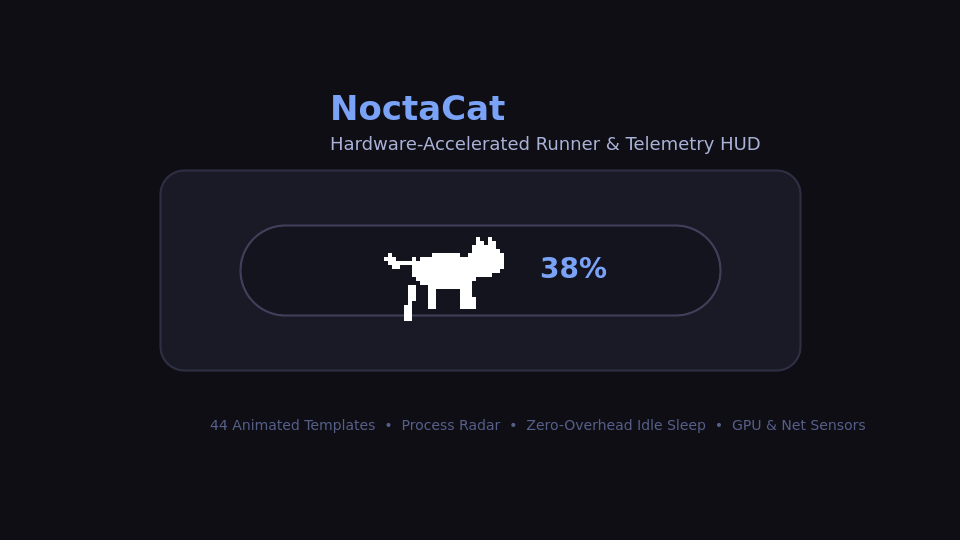
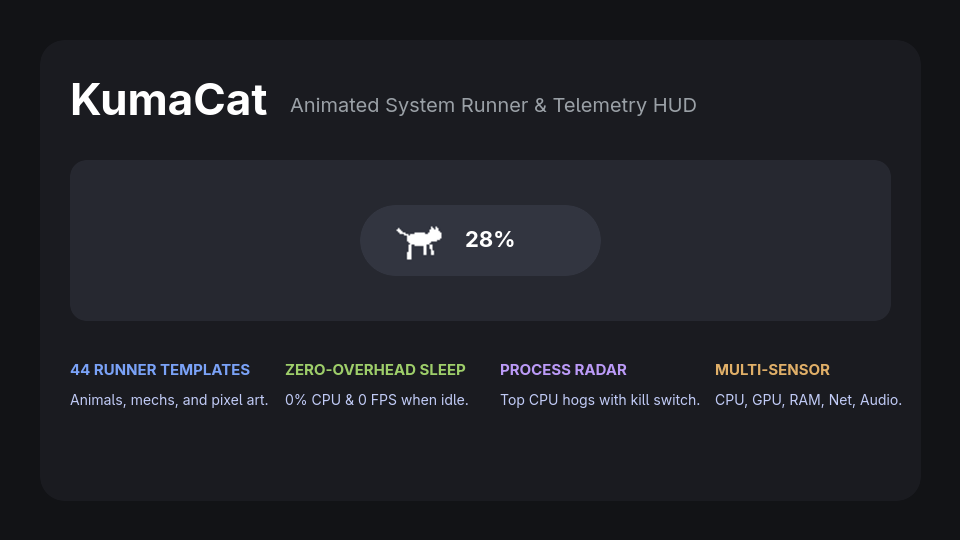
feat: rename plugin to KumaCat

Changed region(s): [[0.0625, 0.1481, 0.9375, 0.5926], [0.0625, 0.6519, 0.9375, 0.8], [0.375, 0.3556, 0.625, 0.5926]]

diff --git a/Panel.qml b/Panel.qml
@@ -141,7 +141,7 @@ Item {
                         spacing: Style.marginXXS
 
                         NText {
-                            text: mainInstance ? mainInstance.runnerDisplayName : "NoctaCat"
+                            text: mainInstance ? mainInstance.runnerDisplayName : "KumaCat"
                             pointSize: Style.fontSizeL
                             font.bold: true
                             color: Color.mOnSurface
@@ -421,7 +421,7 @@ Item {
                         if (pluginApi && targetScreen) {
                             BarService.openPluginSettings(targetScreen, pluginApi.manifest);
                         } else {
-                            Quickshell.execDetached(["qs", "-c", "noctalia-shell", "ipc", "call", "plugin", "openSettings", "noctacat"]);
+                            Quickshell.execDetached(["qs", "-c", "noctalia-shell", "ipc", "call", "plugin", "openSettings", "kumacat"]);
                         }
                     }
                 }

diff --git a/Main.qml b/Main.qml
@@ -126,9 +126,9 @@ Item {
                 if (root.turboSeconds === 30) {
                     Quickshell.execDetached([
                         "notify-send",
-                        "-a", "NoctaCat",
+                        "-a", "KumaCat",
                         "-u", "critical",
-                        "NoctaCat: Sustained Turbo Load",
+                        "KumaCat: Sustained Turbo Load",
                         "High load (" + root.currentMetricValue + "%) detected for 30s. Check Process Radar in the HUD."
                     ]);
                 }
@@ -196,7 +196,7 @@ Item {
     onRunnerChanged: applyRunnerMeta(runner)
 
     IpcHandler {
-        target: "plugin:noctacat"
+        target: "plugin:kumacat"
 
         function pause() { root.paused = true; }
         function resume() { root.paused = false; }

diff --git a/README.md b/README.md
@@ -1,4 +1,4 @@
-# NoctaCat 🐾
+# KumaCat 🐾
 
 Ultra-lightweight, hardware-accelerated animated runner for [Noctalia Shell](https://github.com/noctalia-dev/noctalia) on Wayland (Niri, Hyprland, Sway).
 
@@ -16,7 +16,7 @@ Inspired by RunCat and cosmic-runkat, redesigned from the ground up for zero-ove
   * When load drops below the threshold (default 5%) for over 12 seconds, the runner curls up to nap.
   * The animation timer is completely halted (`0 FPS`), eliminating wasted render cycles and battery drain.
 * **Interactive Pet Micro-Interactions:**
-  * Double-click the runner on the bar (or select "Pet NoctaCat ♥" in the right-click menu) to pet the cat.
+  * Double-click the runner on the bar (or select "Pet KumaCat ♥" in the right-click menu) to pet the cat.
   * Triggers a hop bounce animation and floats playful heart/purr reaction emotes (`♥`, `meow~`, `purr~`, `✨`).
 * **Multi-Sensor Hardware Drivers:**
   * **CPU Usage (%):** Smooth speed scaling proportional to overall CPU load.
@@ -30,11 +30,11 @@ Inspired by RunCat and cosmic-runkat, redesigned from the ground up for zero-ove
   * View real-time clock frequencies, memory usage, and the top 3 CPU-consuming processes.
   * Click the `✕` button next to any runaway process to instantly terminate it (`kill -15 <pid>`).
 * **Sustained Turbo Alert Guardian:**
-  * When load stays above the Turbo Threshold (default 85%) for 30 consecutive seconds, NoctaCat fires a desktop warning notification so you can inspect runaway processes.
+  * When load stays above the Turbo Threshold (default 85%) for 30 consecutive seconds, KumaCat fires a desktop warning notification so you can inspect runaway processes.
 * **Multi-Monitor Display Filtering:**
-  * Choose whether NoctaCat runs on all connected monitor bars or strictly on your primary workstation screen.
+  * Choose whether KumaCat runs on all connected monitor bars or strictly on your primary workstation screen.
 * **Custom GIF & Sprite Auto-Importer:**
-  * Built-in CLI tool (`./bin/noctacat-import`) extracts and formats any GIF, webp, or video into a clean runner pack with automatic dark-silhouette inversion for dark bars.
+  * Built-in CLI tool (`./bin/kumacat-import`) extracts and formats any GIF, webp, or video into a clean runner pack with automatic dark-silhouette inversion for dark bars.
 * **44 Bundled Runner Packs:**
   * Ships with 44 runners: Pixel Cat (Smooth 10-frame), Classic Cat, Swift Bird, Rubber Duck, Frog, Beagle, Shiba Inu, Flash Cat, Dojo Panda, and more.
 * **Adaptive Theming:**
@@ -56,10 +56,10 @@ Inspired by RunCat and cosmic-runkat, redesigned from the ground up for zero-ove
 
 ## Custom Runner Importer CLI
 
-Import any GIF or video file directly into NoctaCat with one command:
+Import any GIF or video file directly into KumaCat with one command:
 
 ```bash
-./bin/noctacat-import path/to/cat.gif --id nyan-cat --name "Nyan Cat" --author "PR-Gamer"
+./bin/kumacat-import path/to/cat.gif --id nyan-cat --name "Nyan Cat" --author "PR-Gamer"
 ```
 
 The importer automatically:
@@ -77,16 +77,16 @@ The importer automatically:
 Clone the repository into your projects directory and link it into your Noctalia plugins folder:
 
 ```bash
-git clone https://github.com/Mhdomer/noctacat.git /mnt/data/Projects/noctacat
-ln -s /mnt/data/Projects/noctacat ~/.config/noctalia/plugins/noctacat
+git clone https://github.com/Mhdomer/kumacat.git /mnt/data/Projects/kumacat
+ln -s /mnt/data/Projects/kumacat ~/.config/noctalia/plugins/kumacat
 ```
 
-Then add `"noctacat"` to your Noctalia plugins configuration in `~/.config/noctalia/plugins.json`:
+Then add `"kumacat"` to your Noctalia plugins configuration in `~/.config/noctalia/plugins.json`:
 
 ```json
 {
   "states": {
-    "noctacat": {
+    "kumacat": {
       "enabled": true
     }
   }
@@ -97,7 +97,7 @@ Add the widget to your bar layout in `~/.config/noctalia/settings.json` under `b
 
 ```json
 {
-  "id": "plugin:noctacat"
+  "id": "plugin:kumacat"
 }
 ```
 
@@ -105,7 +105,7 @@ Add the widget to your bar layout in `~/.config/noctalia/settings.json` under `b
 
 ## Configuration
 
-Right-click the runner on your bar and select **Widget Settings** (or run `qs -c noctalia-shell ipc call plugin openSettings noctacat`):
+Right-click the runner on your bar and select **Widget Settings** (or run `qs -c noctalia-shell ipc call plugin openSettings kumacat`):
 
 * **Active Runner:** Select from 44+ community runner templates.
 * **Driving Metric:** Choose CPU, Memory, Temperature, GPU, or Network Throughput.
@@ -113,20 +113,18 @@ Right-click the runner on your bar and select **Widget Settings** (or run `qs -c
 * **Idle Sleep Mode:** Enable sleep state and configure sleep/turbo thresholds.
 * **Sustained Turbo Alert:** Enable desktop warning notifications for prolonged high load.
 * **Primary Screen Only:** Restrict runner to primary display or show across all monitors.
-* **Color Mode:** Choose Pure White, Primary Accent, Secondary Accent, Alert Red, or Rainbow.
-* **Runner Scale & Offset:** Adjust size and vertical positioning inside the capsule.
-* **Show Badge:** Display load percentage badge directly next to the runner.
+* **Color Mode:** Choose Pure White, Primary Accent, Secondary Accent, Error Red, or Rainbow Rave.
+* **Runner Scale & Speed:** Tune scale multiplier (0.6x to 1.5x) and responsiveness (0.5x to 2.0x).
 
 ---
 
 ## Attribution & Credits
 
-All runner assets belong to their respective creators under the Apache-2.0 and MIT licenses:
-* **Takuto Nakamura ([@Kyome22](https://github.com/Kyome22))**: Original RunCat concept and 32 runner packs from [RunnerGallery](https://github.com/runcat-dev/RunnerGallery).
-* **Roy C. Davies ([@reality2-roycdavies](https://github.com/reality2-roycdavies))**: Smooth 10-frame pixel cat and sleep sprite from `cosmic-runkat`.
-* Community contributors: Ryan Token, Ishank Choudhary, Mao Kawaguchi, Lee Hyun Woo, kujira-wak, custsly, Sangyoon, KentaroxKondo, and sean.
+All bundled runners and frame animations maintain full attribution and licensing for their original designers. See [CREDITS.md](CREDITS.md) for full individual credits.
 
-See [CREDITS.md](CREDITS.md) for full details.
+* **Takuto Nakamura ([@Kyome22](https://github.com/Kyome22)):** Original RunCat creator & 32 core runner designs (Apache 2.0).
+* **Roy C. Davies ([@reality2-roycdavies](https://github.com/reality2-roycdavies)):** Smooth 10-frame pixel cat & sleeping sprite (MIT).
+* **Community Contributors:** See [CREDITS.md](CREDITS.md).
 
 ---
 

diff --git a/CREDITS.md b/CREDITS.md
@@ -1,6 +1,6 @@
 # Designer & Community Credits
 
-NoctaCat relies on animations and runners created by talented open-source artists and developers. Every runner maintains its original license and attribution.
+KumaCat relies on animations and runners created by talented open-source artists and developers. Every runner maintains its original license and attribution.
 
 ## Core Inspiration & Original Runners
 * **Takuto Nakamura ([@Kyome22](https://github.com/Kyome22))**
